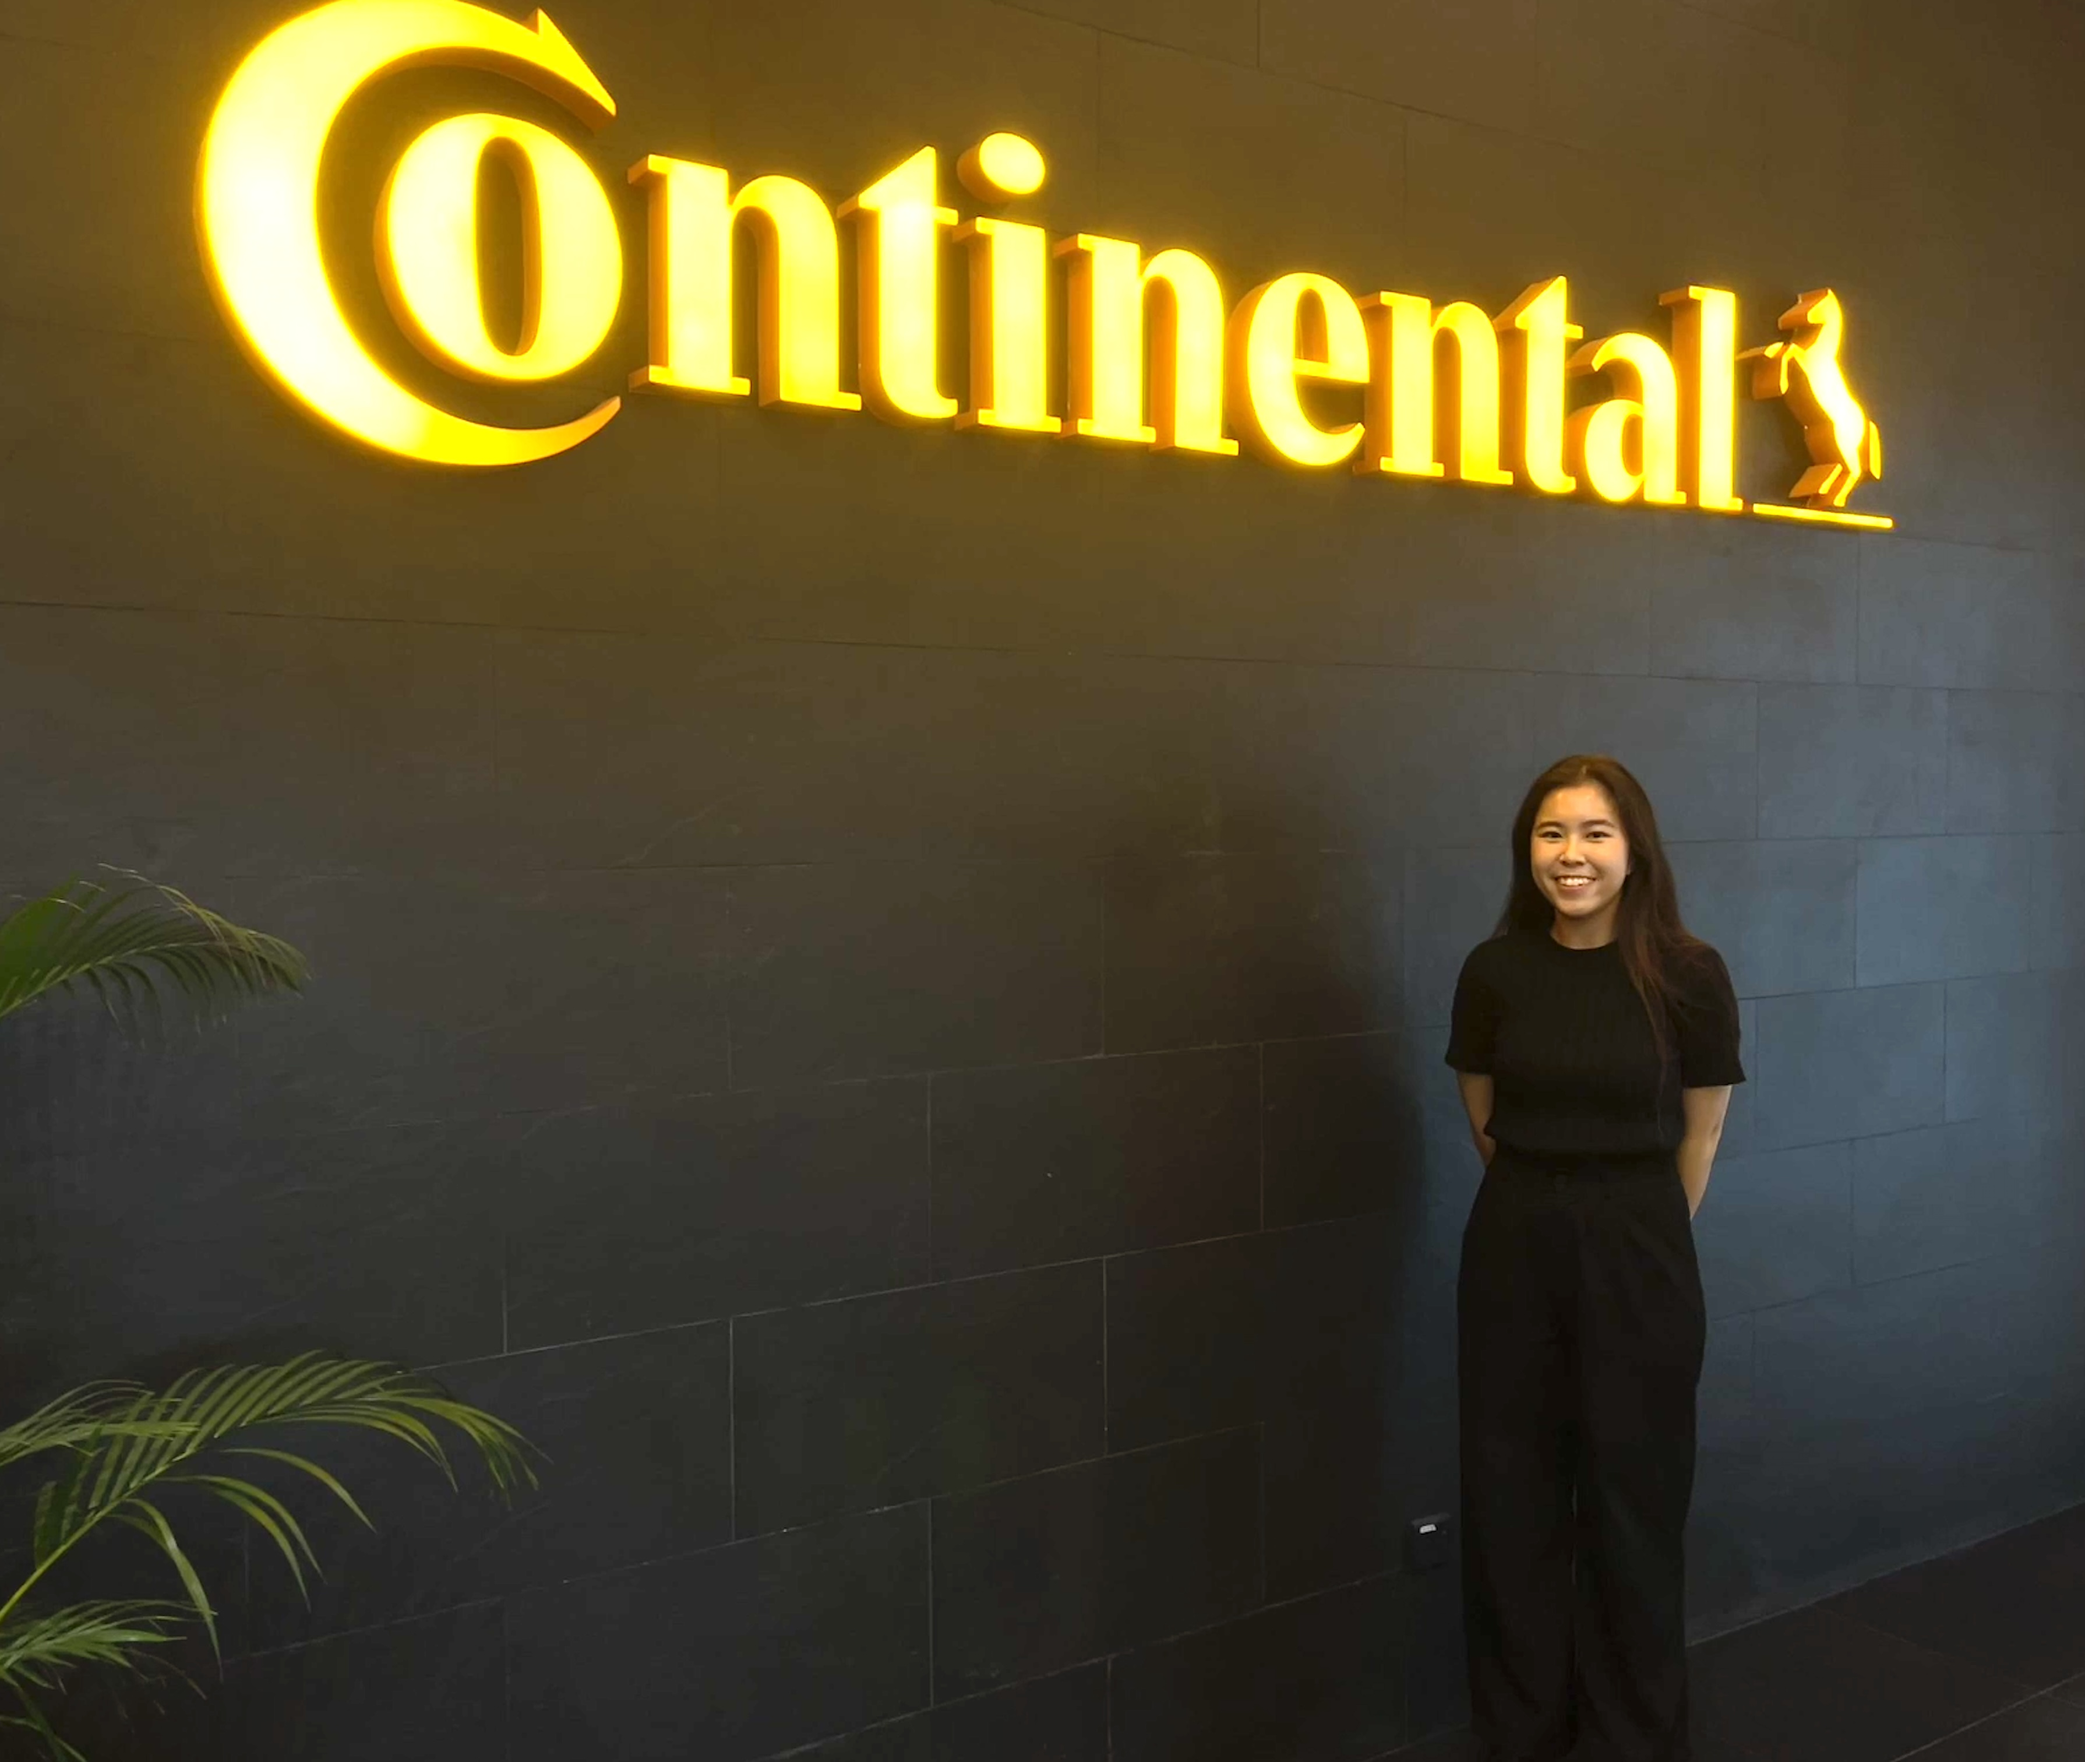
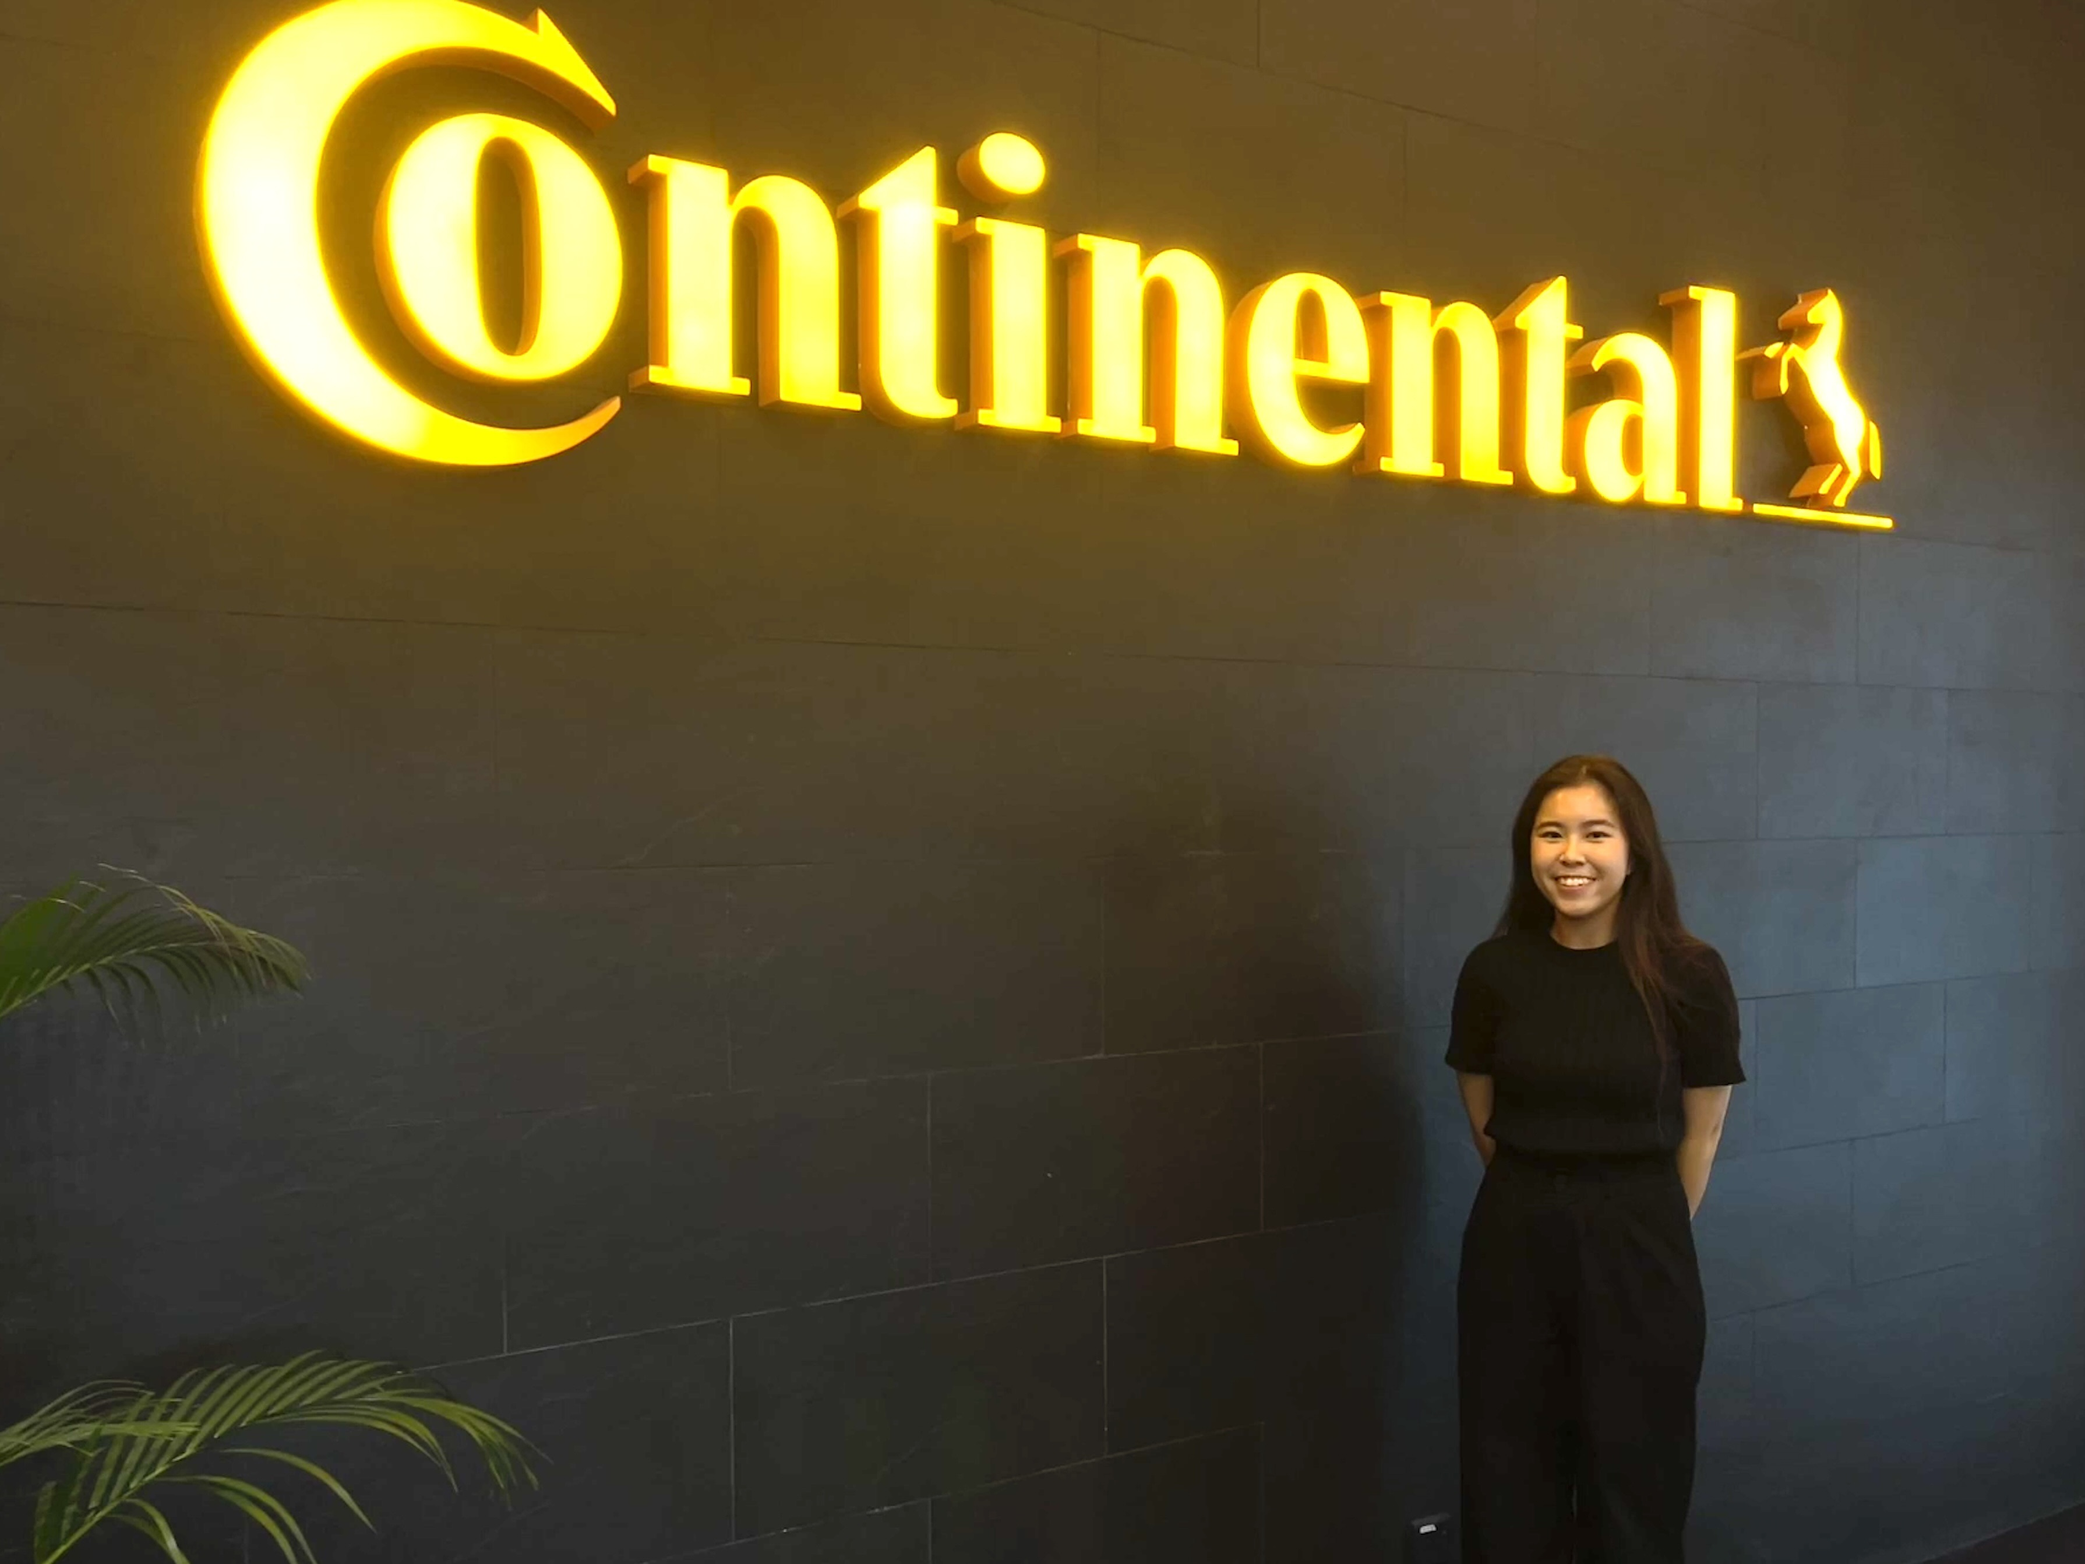
updated

diff --git a/index.html b/index.html
@@ -147,11 +147,12 @@
                     <div class="col-4">
 
                         <div class="portfoliopic" data-aos="fade-up" data-aos-delay="100"><img
-                                src="./assets/images/portfoliopic.PNG" alt=""></div>
+                                src="./assets/images/profilepic.png" alt=""></div>
                     </div>
                     <div class="col-8" data-aos="fade-up" data-aos-delay="100">
-
+<br><br> <br>
                         <div class="service border-hover shadow rounded-5 bg-dark" style="padding: 8%">
+                            
                             <h5 class="fw-bold">Year 4 Computer Science Student at Nanyang Technological University</h5>
 
                             <p class="mb-0">Graduating in December 2024! </p>
@@ -307,11 +308,11 @@
             </div>
             <div class="row">
                 <div class="d-flex justify-content-center text-center" data-aos="fade-up" data-aos-delay="100">
-                    <div id="imageCarousel2" class="carousel slide" data-bs-ride="carousel" style="max-width: 500px;">
+                    <div id="imageCarousel2" class="carousel slide" data-bs-ride="carousel" style="max-width: 400px;">
                         <div class="carousel-inner">
                             <!-- Carousel Item 1 -->
                             <div class="carousel-item active">
-                                <img src="assets/images/-.jpeg" class="d-block w-100 object-fit-cover rounded"
+                                <img src="assets/images/conti_group.jpeg" class="d-block w-100 object-fit-cover rounded"
                                     alt="Image 1">
                             </div>
                             <!-- Carousel Item 2 -->
@@ -529,7 +530,7 @@
                     <div class="emailme border-hover shadow rounded-5 bg-secondary" style="height:80%; width:100%; ">
 
                         <div class="section-title text-center" data-aos="fade-up">
-                            <form action='mailto:shannenlolol@gmail.com' method="post" encType='text/plain'>
+                            <form action='mailto:shannenlee21@yahoo.com' method="post" encType='text/plain'>
 
                                 <label className={styles.about_me} style="margin-top: 60px; ">Your Name:
                                 </label><br></br>
@@ -580,7 +581,7 @@
                         <div class="col-md-3">
                             <h4>Contact</h4>
                             <ul>
-                                <li>Email: shannenlolol@gmail.com</li>
+                                <li>Email: shannenlee21@yahoo.com</li>
                                 <li>Phone: (+65) 83636218</li>
 
                             </ul>
